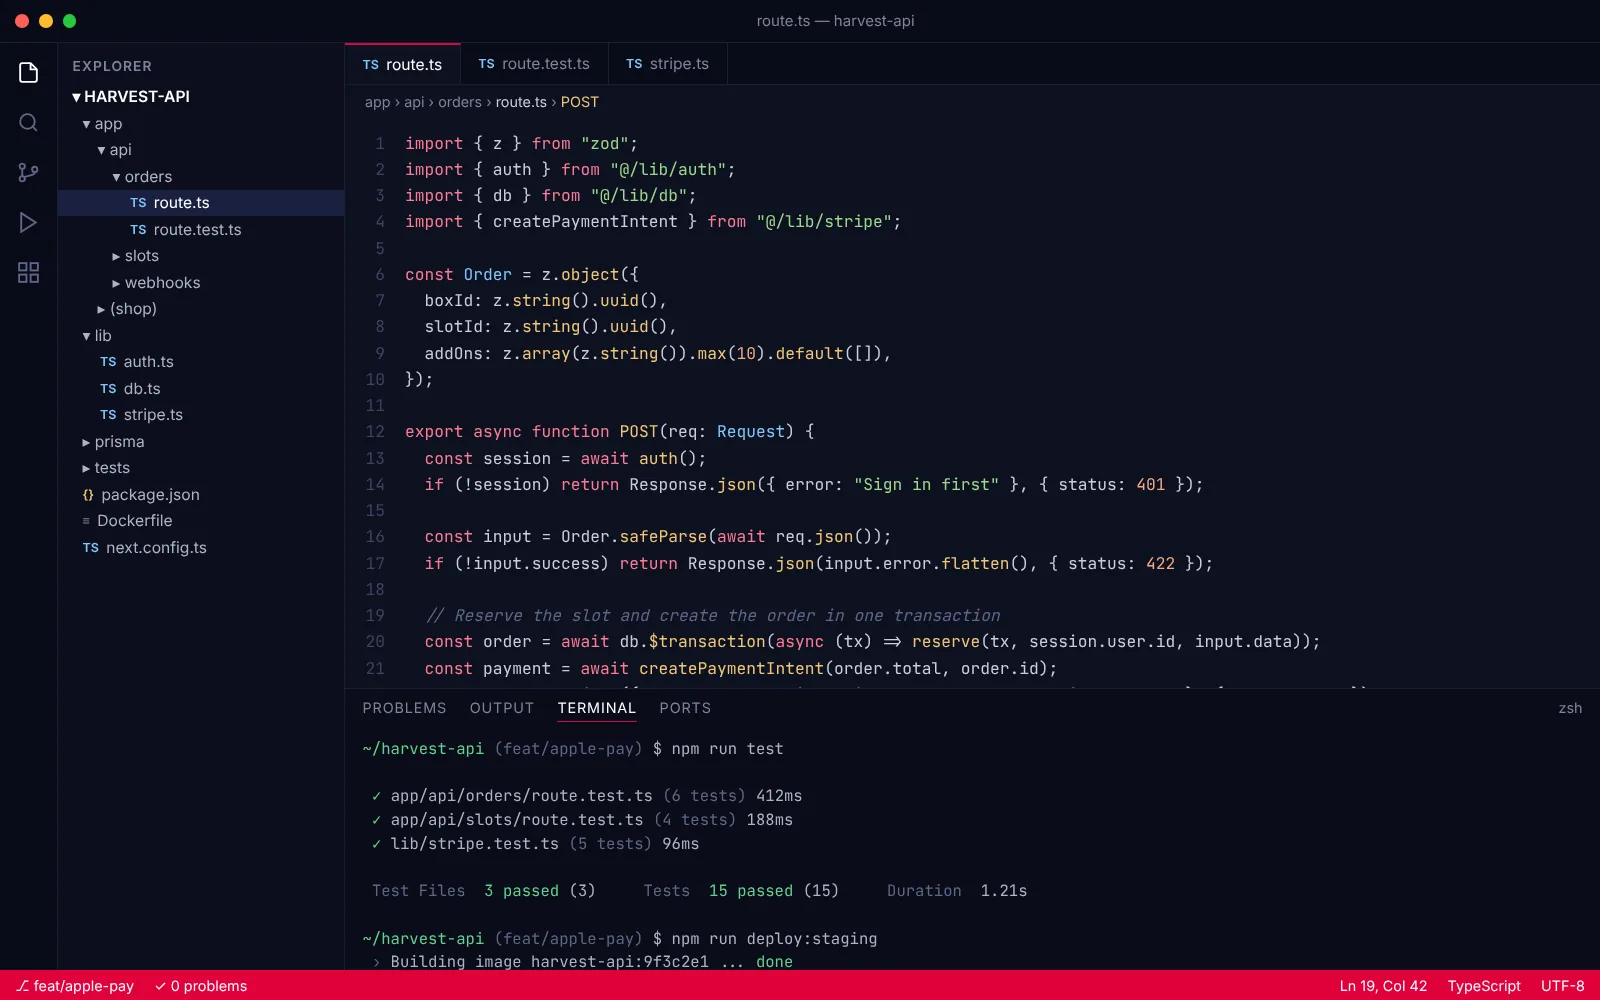
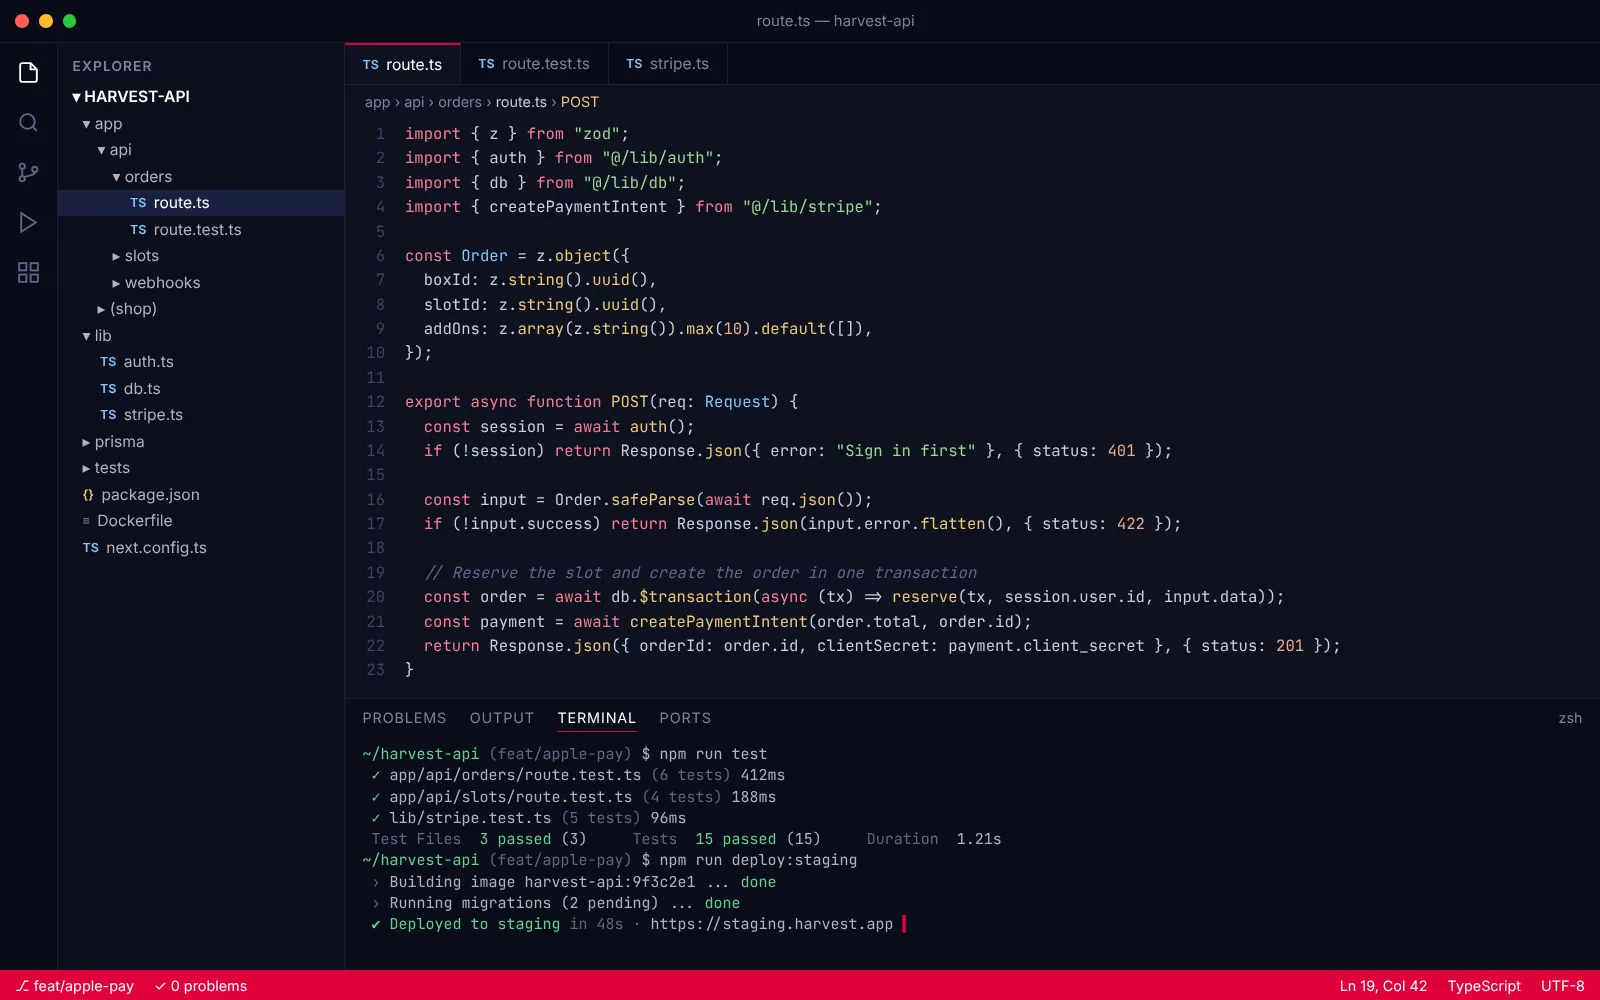
Replace stock photos with rendered product mockups
- 20 portfolio-style mockup images (case-study cards in the 6:5 layout
  competitors use, 2:1 heroes, studio tool shots) designed for the
  sample products, ~1.4 MB total, in public/images/work/
- Used for case-study cards and heroes, service and industry heroes,
  the What we build rows, showreel, studio section and blog covers
- Removed all Unsplash photos and the old code-drawn screen component

Claude-Session: https://claude.ai/code/session_013so4XMZotrtLN3e3B5Ysfh

Changed region(s): [[0.2188, 0.124, 0.8125, 0.961], [0.6562, 0.434, 0.75, 0.527], [0.5625, 0.868, 0.5938, 0.899]]

diff --git a/src/app/services/[slug]/page.tsx b/src/app/services/[slug]/page.tsx
@@ -8,9 +8,9 @@ import FAQ from "@/components/sections/FAQ";
 import SectionHead from "@/components/ui/SectionHead";
 import Button from "@/components/ui/Button";
 import CodeWindow from "@/components/ui/CodeWindow";
-import ProjectVisual from "@/components/ui/ProjectVisual";
+import Photo from "@/components/ui/Photo";
 import LayeredVisual from "@/components/ui/LayeredVisual";
-import { serviceImages } from "@/data/images";
+import { caseImages, serviceImages } from "@/data/images";
 import JsonLd from "@/components/seo/JsonLd";
 import { services } from "@/data/services";
 import { caseStudies } from "@/data/work";
@@ -70,11 +70,7 @@ export default async function ServicePage({ params }: PageProps<"/services/[slug
             </div>
           </div>
           <div className="md:col-span-7">
-            <div data-clip className="relative aspect-[4/3] overflow-hidden">
-              <div data-clip-inner className="absolute inset-0">
-                <ProjectVisual project={shot} className="h-full w-full" />
-              </div>
-            </div>
+            <Photo src={caseImages[shot.slug].src} alt={caseImages[shot.slug].alt} className="aspect-[6/5]" drift={false} />
             <p className="mt-3 text-sm text-white/55">
               {shot.name}, {shot.client}
             </p>

diff --git a/src/components/sections/ServiceShowcase.tsx b/src/components/sections/ServiceShowcase.tsx
@@ -1,5 +1,6 @@
 import Link from "next/link";
-import ProjectVisual from "@/components/ui/ProjectVisual";
+import Photo from "@/components/ui/Photo";
+import { caseImages } from "@/data/images";
 import { ArrowLink } from "@/components/ui/Button";
 import { getCase } from "@/data/work";
 
@@ -54,11 +55,7 @@ export default function ServiceShowcase() {
               </p>
             </div>
             <Link href={shot ? `/work/${shot.slug}` : r.href} data-cursor="View" className={`group block md:col-span-7 ${i % 2 ? "md:order-1" : ""}`}>
-              <div data-clip className="cut-tl relative aspect-[4/3] overflow-hidden [--cut:40px]">
-                <div data-clip-inner className="absolute inset-0">
-                  {shot && <ProjectVisual project={shot} className="h-full w-full transition-transform duration-[1.4s] ease-out-expo group-hover:scale-[1.03]" />}
-                </div>
-              </div>
+              {shot && <Photo src={caseImages[shot.slug].src} alt={caseImages[shot.slug].alt} className="cut-tl aspect-[6/5] [--cut:40px]" hoverZoom drift={false} sizes="(min-width: 768px) 58vw, 100vw" />}
               {shot && <p className="mt-3 text-sm text-muted">{shot.name}, {shot.client}</p>}
             </Link>
           </div>

diff --git a/src/components/ui/LayeredVisual.tsx b/src/components/ui/LayeredVisual.tsx
@@ -1,17 +1,6 @@
 import Photo from "./Photo";
-import Illustration from "@/components/illustrations/Illustration";
 
-/** Photo with an animated UI card floating over one corner. */
-export default function LayeredVisual({ photo, illus, priority = false, flip = false }: { photo: { src: string; alt: string }; illus: string; priority?: boolean; flip?: boolean }) {
-  return (
-    <div className={`relative ${flip ? "md:pl-[12%]" : "md:pr-[12%]"} pb-[18%]`}>
-      <Photo src={photo.src} alt={photo.alt} priority={priority} className="cut-tl aspect-[6/5] [--cut:44px]" />
-      <div
-        data-parallax="-0.12"
-        className={`absolute bottom-0 w-[64%] bg-white p-3 shadow-[0_30px_60px_-25px_rgba(0,2,10,0.45)] md:p-4 ${flip ? "left-0" : "right-0"}`}
-      >
-        <Illustration name={illus} className="h-auto w-full" />
-      </div>
-    </div>
-  );
+/** Hero product shot with the logo's cut corner. */
+export default function LayeredVisual({ photo, priority = false }: { photo: { src: string; alt: string }; illus?: string; priority?: boolean; flip?: boolean }) {
+  return <Photo src={photo.src} alt={photo.alt} priority={priority} drift={false} className="cut-tl aspect-[6/5] [--cut:44px]" />;
 }

diff --git a/src/app/work/[slug]/page.tsx b/src/app/work/[slug]/page.tsx
@@ -3,7 +3,6 @@ import { notFound } from "next/navigation";
 import Breadcrumbs from "@/components/sections/Breadcrumbs";
 import { Prose, Split, TechRow } from "@/components/sections/Blocks";
 import StickyStory from "@/components/sections/StickyStory";
-import ProjectVisual from "@/components/ui/ProjectVisual";
 import Photo from "@/components/ui/Photo";
 import { caseHeroes, caseImages } from "@/data/images";
 import { caseStudies } from "@/data/work";
@@ -74,12 +73,7 @@ export default async function CasePage({ params }: PageProps<"/work/[slug]">) {
       </Split>
 
       <section className="wrap py-10">
-        <div data-clip className="relative aspect-[4/3] overflow-hidden md:aspect-[16/8]">
-          <div data-clip-inner className="absolute inset-0">
-            <ProjectVisual project={c} className="h-full w-full" />
-          </div>
-        </div>
-        <p className="mt-3 text-sm text-muted">{c.name}: main screen</p>
+        {caseImages[c.slug] && <Photo src={caseImages[c.slug].src} alt={caseImages[c.slug].alt} className="mx-auto aspect-[6/5] max-w-4xl" drift={false} />}
       </section>
 
       <StickyStory title="Inside the product" items={c.features} dark />

diff --git a/README.md b/README.md
@@ -33,7 +33,7 @@ Copy `.env.example` to `.env` (or set the variables in your hosting panel):
 | Case studies (**placeholders** — replace with real projects) | `src/data/work.ts` |
 | Blog articles | `src/data/posts.ts` |
 | Testimonials | `src/data/testimonials.ts` |
-| Photos (**placeholders**, Unsplash License) | `public/images/` + `src/data/images.ts` (see `public/images/CREDITS.md`) |
+| Product mockups (**placeholders** for sample projects) | `public/images/work/` + `src/data/images.ts` |
 | Process, engagement models, "why us" | `src/data/process.ts` |
 | Menus | `src/data/nav.ts` |
 
